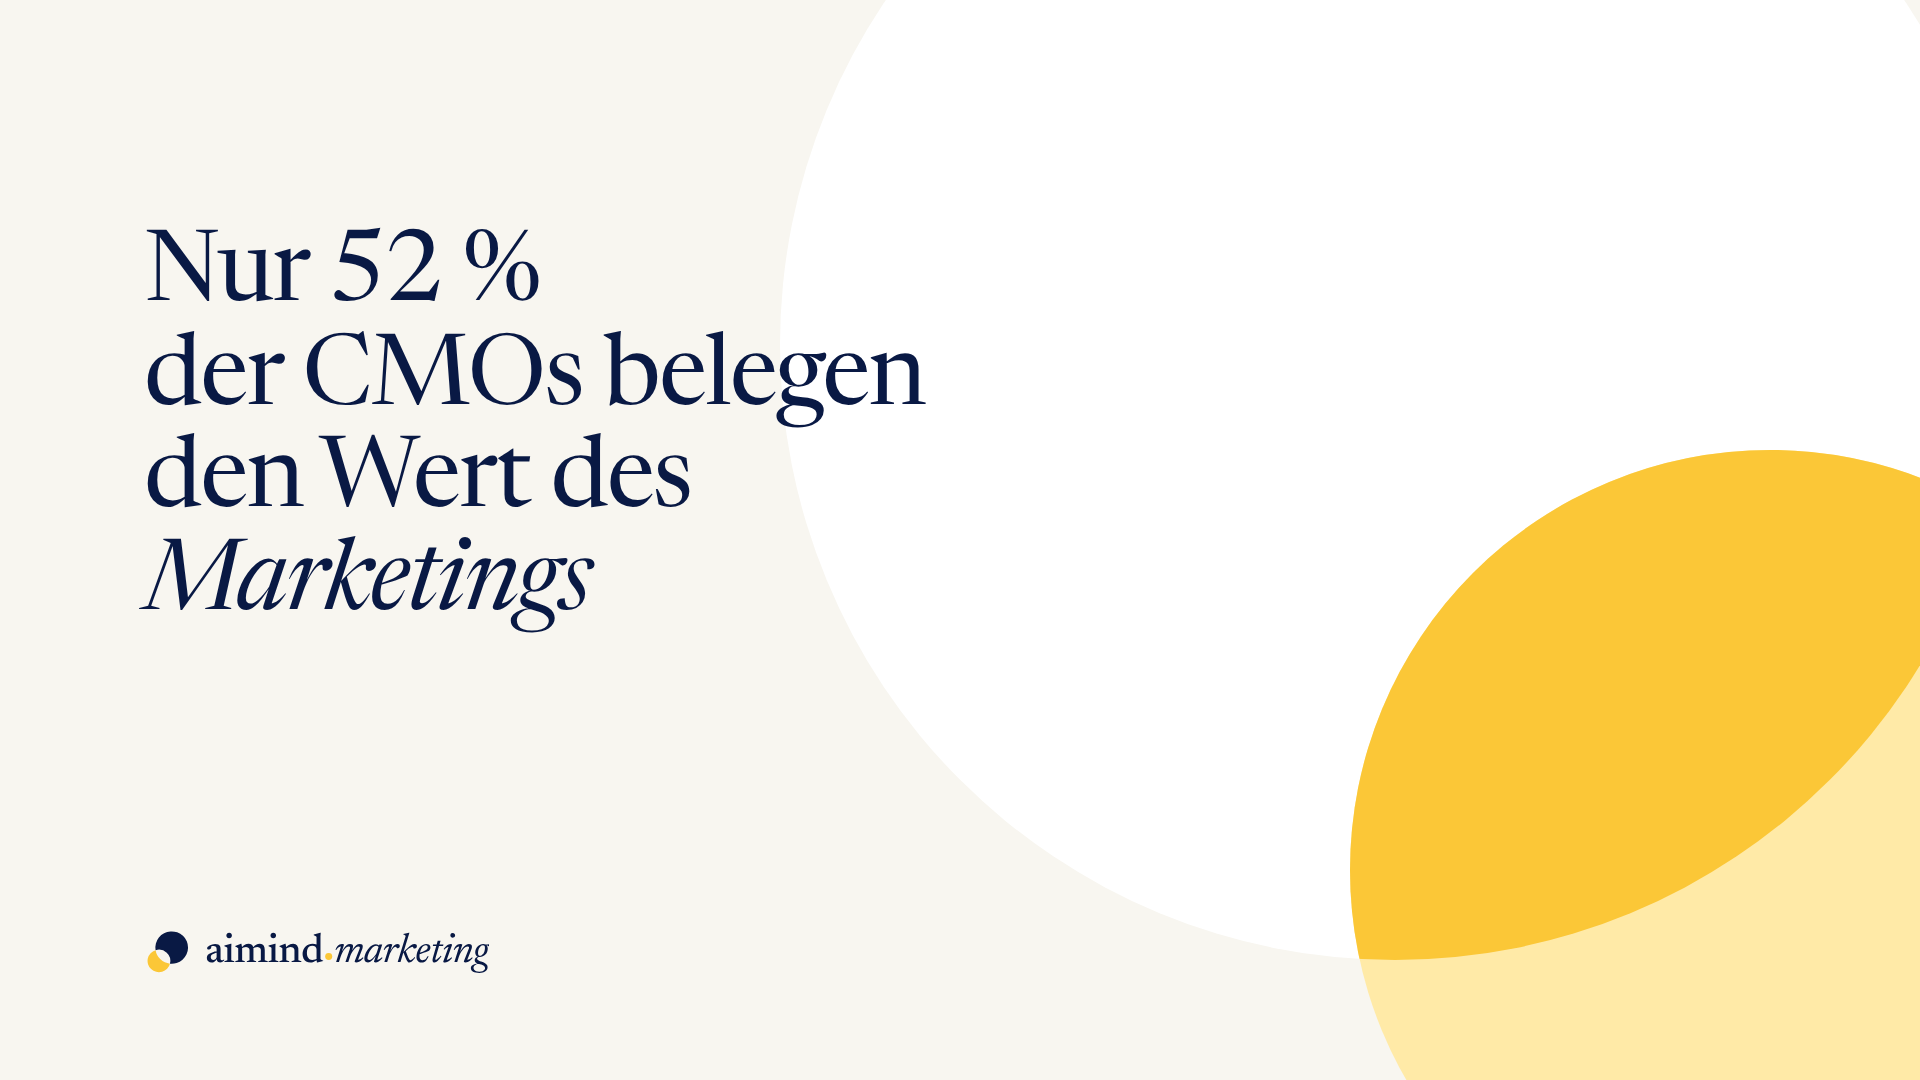
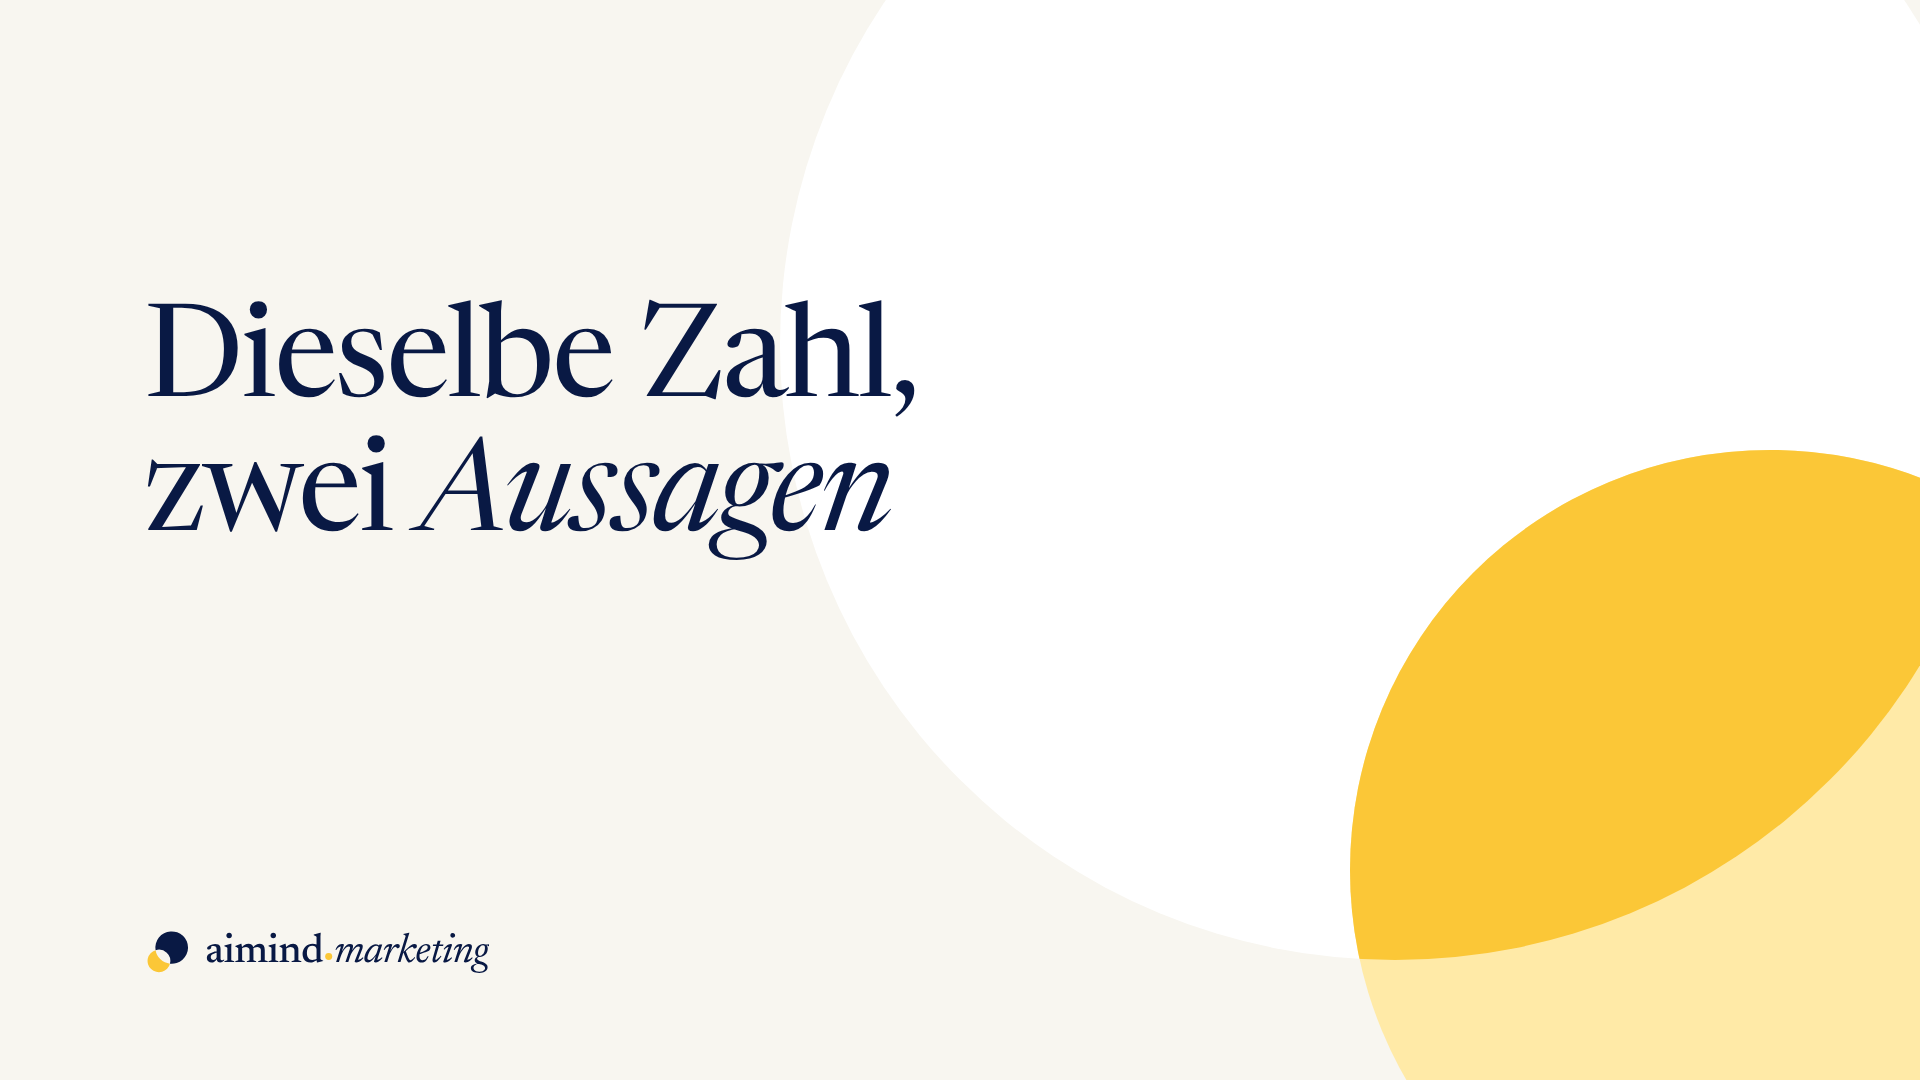
Pulse covers with the final cover texts (AI, ROI, CMO)
Claude-Session: https://claude.ai/code/session_01EoT7BpRMXSboJ4awkNYbjF

Changed region(s): [[0.0625, 0.2139, 0.5, 0.5806]]

diff --git a/design/infographics/roi-pulse-cover-de.html b/design/infographics/roi-pulse-cover-de.html
@@ -9,12 +9,12 @@ body{background:#f8f6f0;color:#091944;position:relative;overflow:hidden;isolatio
 .c1{position:absolute;width:820px;height:820px;border-radius:50%;background:#fff;left:520px;top:-180px;z-index:-2}
 .c2{position:absolute;width:560px;height:560px;border-radius:50%;background:#ffeaa7;left:900px;top:300px;z-index:-1}
 .lens{position:absolute;left:0;top:0;z-index:-1}
-.topic{position:absolute;left:96px;top:150px;font-family:"Newsreader",serif;font-weight:400;font-size:66px;line-height:1.04;letter-spacing:-.02em}
+.topic{position:absolute;left:96px;top:200px;font-family:"Newsreader",serif;font-weight:400;font-size:86px;line-height:1.04;letter-spacing:-.02em}
 .topic em{font-style:italic}
 img{position:absolute;left:96px;bottom:70px;width:230px}
 </style></head><body>
 <div class="c1"></div><div class="c2"></div>
 <svg class="lens" width="1280" height="720"><defs><clipPath id="a"><circle cx="930" cy="230" r="410"/></clipPath></defs><circle cx="1180" cy="580" r="280" fill="#fbc737" clip-path="url(#a)"/></svg>
-<div class="topic">Nur 52&nbsp;%<br>der CMOs belegen<br>den Wert des<br><em>Marketings</em></div>
+<div class="topic">Dieselbe Zahl,<br>zwei <em>Aussagen</em></div>
 <img src="../logo/svg/aimind-logo.svg" alt="aimind.marketing">
 </body></html>

diff --git a/design/infographics/ai-pulse-cover-de.html b/design/infographics/ai-pulse-cover-de.html
@@ -15,6 +15,6 @@ img{position:absolute;left:96px;bottom:70px;width:230px}
 </style></head><body>
 <div class="c1"></div><div class="c2"></div>
 <svg class="lens" width="1280" height="720"><defs><clipPath id="a"><circle cx="930" cy="230" r="410"/></clipPath></defs><circle cx="1180" cy="580" r="280" fill="#fbc737" clip-path="url(#a)"/></svg>
-<div class="topic">Was heißt<br>KI-Kompetenz<br>im <em>Marketing</em>?</div>
+<div class="topic">KI-Kompetenz<br>ist <em>Pflicht</em></div>
 <img src="../logo/svg/aimind-logo.svg" alt="aimind.marketing">
 </body></html>

diff --git a/design/infographics/cmo-pulse-cover-de.html b/design/infographics/cmo-pulse-cover-de.html
@@ -15,6 +15,6 @@ img{position:absolute;left:96px;bottom:70px;width:230px}
 </style></head><body>
 <div class="c1"></div><div class="c2"></div>
 <svg class="lens" width="1280" height="720"><defs><clipPath id="a"><circle cx="930" cy="230" r="410"/></clipPath></defs><circle cx="1180" cy="580" r="280" fill="#fbc737" clip-path="url(#a)"/></svg>
-<div class="topic">Mehr KI,<br>weniger<br><em>Weiterbildung</em></div>
+<div class="topic">KI im Budget<br>für <em>2027</em></div>
 <img src="../logo/svg/aimind-logo.svg" alt="aimind.marketing">
 </body></html>
